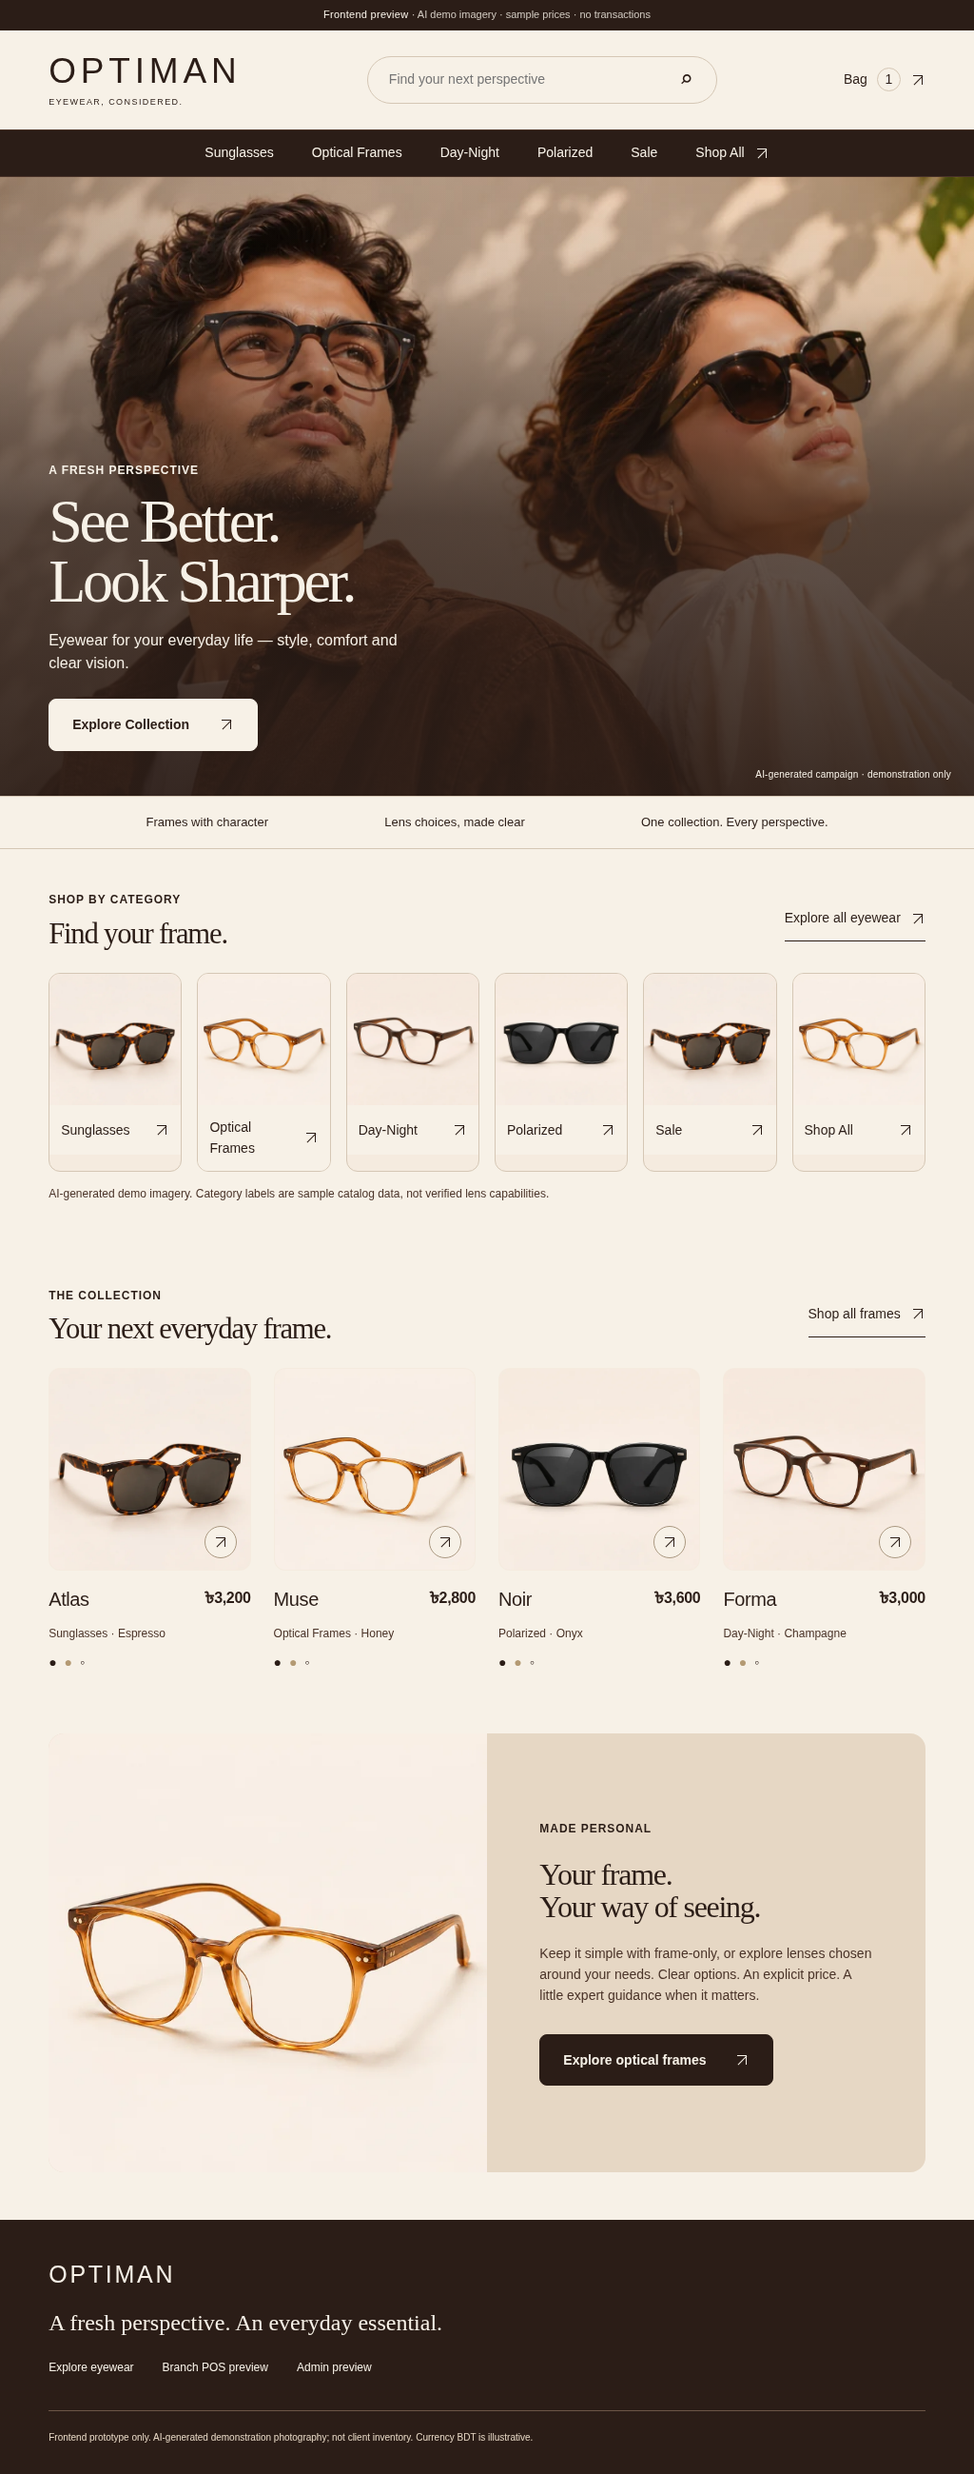
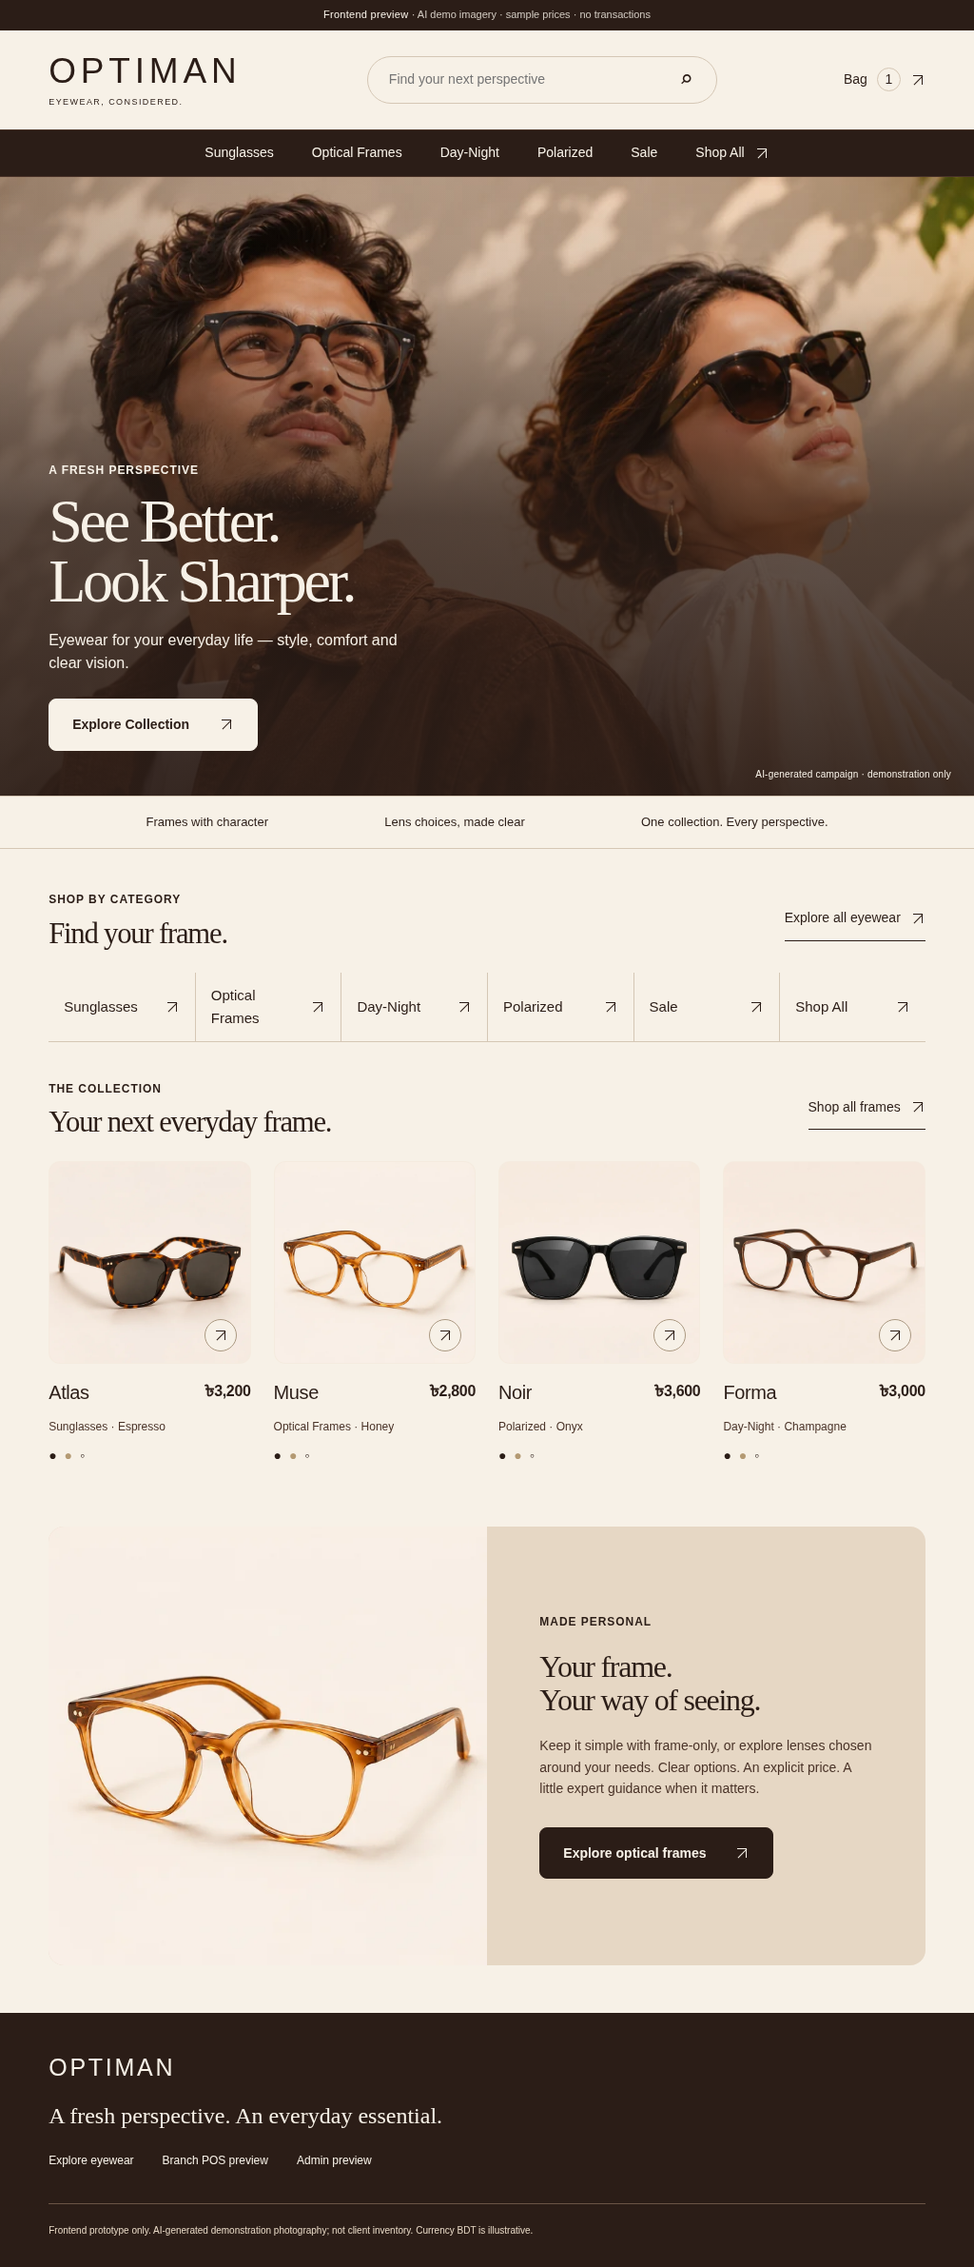
Replace category photo tiles with clean responsive text navigation

diff --git a/preview/app.js b/preview/app.js
@@ -20,10 +20,10 @@ function productPhoto(p, context='card') {
 }
 function card(p){return `<article class="product-card"><a href="#product/${p.id}" class="product-image">${productPhoto(p)}<span class="image-arrow"><i class="arrow" aria-hidden="true"></i></span></a><div class="card-meta"><div><a href="#product/${p.id}"><h3>${p.name}</h3></a><p>${p.category} · ${p.color}</p></div><strong>${money(p.price)}</strong></div><span class="dots" aria-label="Illustrative color palette">● <span>●</span> ◦</span></article>`;}
 function heading(k,t,desc=''){return `<div class="page-heading"><p class="eyebrow">${k}</p><h1>${t}</h1>${desc?`<p>${desc}</p>`:''}</div>`;}
-function home(){return `<section class="hero campaign-hero"><div class="hero-copy"><p class="eyebrow">A fresh perspective</p><h1>See Better.<br><em>Look Sharper.</em></h1><p>Eyewear for your everyday life — style, comfort and clear vision.</p><a class="button" href="#shop">Explore Collection <i class="arrow" aria-hidden="true"></i></a></div><figure class="hero-art"><img src="assets/campaign-eyewear-duo-1200.webp" srcset="assets/campaign-eyewear-duo-768.webp 768w, assets/campaign-eyewear-duo-1200.webp 1200w, assets/campaign-eyewear-duo-1774.webp 1774w" sizes="100vw" width="1774" height="887" alt="AI-generated campaign photograph of two models wearing optical glasses and sunglasses in warm sunlight" fetchpriority="high" loading="eager" decoding="async"></figure><p class="campaign-credit">AI-generated campaign · demonstration only</p></section><div class="benefit-strip"><span>Frames with character</span><span>Lens choices, made clear</span><span>One collection. Every perspective.</span></div><section class="section"><div class="section-title"><div><p class="eyebrow">Shop by category</p><h2>Find your frame.</h2></div><a href="#shop">Explore all eyewear <i class="arrow" aria-hidden="true"></i></a></div><div class="category-links">${[
-  ['Sunglasses','sunglasses',0],['Optical Frames','optical',1],['Day-Night','day-night',3],
-  ['Polarized','polarized',2],['Sale','sale',0],['Shop All','',1]
-].map(([label,slug,index])=>`<a class="category-tile" aria-label="${label}" href="#shop${slug?'/'+slug:''}">${productPhoto(products[index])}<span>${label}<i class="arrow" aria-hidden="true"></i></span></a>`).join('')}</div><p class="category-disclosure">AI-generated demo imagery. Category labels are sample catalog data, not verified lens capabilities.</p></section><section class="section"><div class="section-title"><div><p class="eyebrow">The collection</p><h2>Your next everyday frame.</h2></div><a href="#shop">Shop all frames <i class="arrow" aria-hidden="true"></i></a></div><div class="product-grid">${products.map(card).join('')}</div></section><section class="editorial">${productPhoto(products[1],'editorial')}<div><p class="eyebrow">MADE PERSONAL</p><h2>Your frame.<br>Your way of seeing.</h2><p>Keep it simple with frame-only, or explore lenses chosen around your needs. Clear options. An explicit price. A little expert guidance when it matters.</p><a class="button" href="#product/muse">Explore optical frames <i class="arrow" aria-hidden="true"></i></a></div></section>`;}
+function home(){return `<section class="hero campaign-hero"><div class="hero-copy"><p class="eyebrow">A fresh perspective</p><h1>See Better.<br><em>Look Sharper.</em></h1><p>Eyewear for your everyday life — style, comfort and clear vision.</p><a class="button" href="#shop">Explore Collection <i class="arrow" aria-hidden="true"></i></a></div><figure class="hero-art"><img src="assets/campaign-eyewear-duo-1200.webp" srcset="assets/campaign-eyewear-duo-768.webp 768w, assets/campaign-eyewear-duo-1200.webp 1200w, assets/campaign-eyewear-duo-1774.webp 1774w" sizes="100vw" width="1774" height="887" alt="AI-generated campaign photograph of two models wearing optical glasses and sunglasses in warm sunlight" fetchpriority="high" loading="eager" decoding="async"></figure><p class="campaign-credit">AI-generated campaign · demonstration only</p></section><div class="benefit-strip"><span>Frames with character</span><span>Lens choices, made clear</span><span>One collection. Every perspective.</span></div><section class="section category-section"><div class="section-title"><div><p class="eyebrow">SHOP BY CATEGORY</p><h2>Find your frame.</h2></div><a href="#shop">Explore all eyewear <i class="arrow" aria-hidden="true"></i></a></div><div class="category-links">${[
+  ['Sunglasses','sunglasses'],['Optical Frames','optical'],['Day-Night','day-night'],
+  ['Polarized','polarized'],['Sale','sale'],['Shop All','']
+].map(([label,slug])=>`<a class="category-link" aria-label="${label}" href="#shop${slug?'/'+slug:''}"><span>${label}<i class="arrow" aria-hidden="true"></i></span></a>`).join('')}</div></section><section class="section"><div class="section-title"><div><p class="eyebrow">The collection</p><h2>Your next everyday frame.</h2></div><a href="#shop">Shop all frames <i class="arrow" aria-hidden="true"></i></a></div><div class="product-grid">${products.map(card).join('')}</div></section><section class="editorial">${productPhoto(products[1],'editorial')}<div><p class="eyebrow">MADE PERSONAL</p><h2>Your frame.<br>Your way of seeing.</h2><p>Keep it simple with frame-only, or explore lenses chosen around your needs. Clear options. An explicit price. A little expert guidance when it matters.</p><a class="button" href="#product/muse">Explore optical frames <i class="arrow" aria-hidden="true"></i></a></div></section>`;}
 function shop(){const slug=location.hash.split('/')[1]||'';const cats={'sunglasses':'Sunglasses','optical':'Optical Frames','day-night':'Day-Night','polarized':'Polarized','sale':'Sale'};return `${heading('THE COLLECTION',cats[slug]||'Find your perspective.','Synthetic collection · demonstration frame prices')}<section class="section listing"><div class="filterbar"><label>Search<input id="filter-search" type="search" placeholder="Name or color"></label><label>Category<select id="filter-category"><option value="">All eyewear</option>${['Sunglasses','Optical Frames','Day-Night','Polarized','Sale'].map(c=>`<option ${cats[slug]===c?'selected':''}>${c}</option>`).join('')}</select></label><label>Price<select id="filter-price"><option value="0">All prices</option><option value="3000">Up to ৳3,000</option></select></label><label>Sort<select id="sort"><option value="featured">Featured</option><option value="low">Price: low to high</option><option value="high">Price: high to low</option><option value="name">Name</option></select></label><button class="quiet" id="clear-filters">Reset</button></div><p id="results-count" class="muted" aria-live="polite"></p><div class="product-grid" id="results"></div></section>`;}
 function results(){let list=products.filter(p=>(p.name+' '+p.color).toLowerCase().includes(document.querySelector('#filter-search').value.toLowerCase())&&(!document.querySelector('#filter-category').value||p.category===document.querySelector('#filter-category').value)&&(!+document.querySelector('#filter-price').value||p.price<=+document.querySelector('#filter-price').value));const sort=document.querySelector('#sort').value;list.sort((a,b)=>sort==='low'?a.price-b.price:sort==='high'?b.price-a.price:sort==='name'?a.name.localeCompare(b.name):0);document.querySelector('#results-count').textContent=`${list.length} illustrative styles`;document.querySelector('#results').innerHTML=list.length?list.map(card).join(''):'<div class="empty"><h2>A fresh start?</h2><p>No styles match. Try resetting your filters.</p></div>';}
 function current(){return products.find(p=>p.id===location.hash.split('/')[1])||products[0];}

diff --git a/preview/styles.css b/preview/styles.css
@@ -65,12 +65,26 @@ nav a{display:flex;align-items:center;gap:10px;min-height:48px;padding:12px 0}
 .section-title h2{font-size:clamp(30px,3vw,42px)}
 .section-title>a{display:inline-flex;align-items:center;gap:10px;min-height:44px;font-size:14px;white-space:normal}
 .section-title .eyebrow{margin-bottom:9px}
-.category-links{display:grid;grid-template-columns:repeat(6,minmax(0,1fr));gap:16px;border:0}
-.category-links a.category-tile{display:block;min-width:0;padding:0;border:1px solid var(--line);border-radius:12px;background:#f5ebdf;overflow:hidden;transition:border-color .15s ease}
-.category-tile img{display:block;width:100%;height:auto;aspect-ratio:1;object-fit:contain}
-.category-tile>span{display:flex;align-items:center;justify-content:space-between;gap:10px;min-height:52px;padding:12px;font-size:14px;background:var(--cream);font-weight:500}
-.category-links a:hover{border-color:var(--brown)}
-.category-disclosure{font-size:12px;color:var(--mocha);margin:14px 0 0}
+/* Phase 03.3: text-only discovery, lighter than the product collection. */
+.category-section{padding-bottom:20px}
+.category-section + .section{padding-top:20px}
+.category-section .category-links{display:grid;grid-template-columns:repeat(6,minmax(0,1fr));gap:0;border:0}
+.category-section .category-links .category-link{display:flex;align-items:center;min-width:0;min-height:60px;padding:12px 16px;border:0;border-bottom:1px solid var(--line);border-radius:0;background:transparent;font-size:15px;font-weight:500;transition:background-color .15s ease,border-color .15s ease}
+.category-link>span{display:flex;align-items:center;justify-content:space-between;gap:12px;width:100%}
+.category-section .category-links .category-link + .category-link{border-left:1px solid var(--line)}
+.category-section .category-links .category-link:hover{background:var(--sand);border-bottom-color:var(--brown)}
+.category-section .category-links .category-link:focus-visible{outline:2px solid var(--brown);outline-offset:-3px;background:var(--sand)}
+@media(min-width:600px) and (max-width:1023px){
+ .category-section .category-links{grid-template-columns:repeat(3,minmax(0,1fr))}
+ .category-section .category-links .category-link:nth-child(3n+1){border-left:0}
+}
+@media(max-width:599px){
+ .category-section .category-links{grid-template-columns:repeat(2,minmax(0,1fr))}
+ .category-section .category-links .category-link{min-height:52px;font-size:14px;padding:12px}
+ .category-section .category-links .category-link:nth-child(2n+1){border-left:0}
+ .category-section{padding-bottom:16px}
+ .category-section + .section{padding-top:16px}
+}
 .product-grid{gap:24px;align-items:start}
 .product-card{min-width:0}
 .product-image{border-radius:12px;background:#f5ebdf;border:1px solid transparent}
@@ -118,7 +132,6 @@ nav a{display:flex;align-items:center;gap:10px;min-height:48px;padding:12px 0}
  .campaign-hero .hero-copy{width:58%;bottom:42px}
  .campaign-hero h1{font-size:68px}
  .campaign-hero .hero-art img{object-position:58% 30%}
- .category-links{grid-template-columns:repeat(3,minmax(0,1fr));gap:16px}
  .section{padding-block:36px}
  .card-meta{flex-wrap:wrap}.card-meta strong{font-size:15px}
  .product-config h1{font-size:52px}.product-detail{gap:4%}
@@ -145,9 +158,6 @@ nav a{display:flex;align-items:center;gap:10px;min-height:48px;padding:12px 0}
  .section{padding:30px 5%}.section-title{gap:16px;margin-bottom:20px;align-items:center}
  .section-title h2{font-size:31px}.section-title .eyebrow{font-size:11px;letter-spacing:.05em}
  .section-title>a{font-size:12px;min-width:70px;gap:8px;text-align:right}
- .category-links{grid-template-columns:repeat(2,minmax(0,1fr));gap:12px}
- .category-tile>span{font-size:13px;padding:10px;min-height:46px}
- .category-disclosure{font-size:11px;line-height:1.55}
  .product-grid{gap:24px 13px}.card-meta{display:block;padding-top:14px}
  .card-meta h3{font-size:18px}.card-meta p{font-size:11px;line-height:1.45;min-height:32px}
  .card-meta strong{font-size:15px;display:block;margin-top:7px}

diff --git a/preview/index.html b/preview/index.html
@@ -1,2 +1,2 @@
 <!doctype html>
-<html lang="en"><head><meta charset="utf-8"><meta name="viewport" content="width=device-width,initial-scale=1"><meta name="theme-color" content="#2B1D17"><title>Optiman · See Better. Look Sharper.</title><link rel="stylesheet" href="styles.css?v=premium-032"><script src="app.js?v=premium-032" defer></script></head><body><a class="skip" href="#main">Skip to content</a><div class="demo">Frontend preview <span>· AI demo imagery · sample prices · no transactions</span></div><header><div class="masthead"><button class="menu icon" aria-label="Open menu" aria-expanded="false">☰</button><a class="logo" href="#home">OPTIMAN<span>EYEWEAR, CONSIDERED.</span></a><form id="search-form" role="search"><label class="sr" for="search">Search eyewear</label><input id="search" placeholder="Find your next perspective"><button aria-label="Search">⌕</button></form><a class="cart-link" href="#cart">Bag <span id="bag-count">0</span> <i class="arrow" aria-hidden="true"></i></a></div><nav aria-label="Main navigation"><a href="#shop/sunglasses">Sunglasses</a><a href="#shop/optical">Optical Frames</a><a href="#shop/day-night">Day-Night</a><a href="#shop/polarized">Polarized</a><a href="#shop/sale">Sale</a><a href="#shop">Shop All <i class="arrow" aria-hidden="true"></i></a></nav></header><main id="main" tabindex="-1"></main><footer><a class="logo" href="#home">OPTIMAN</a><p>A fresh perspective. An everyday essential.</p><div><a href="#shop">Explore eyewear</a><a href="#pos">Branch POS preview</a><a href="#admin">Admin preview</a></div><small>Frontend prototype only. AI-generated demonstration photography; not client inventory. Currency BDT is illustrative.</small></footer><dialog id="modal"><button id="close-modal" class="close" aria-label="Close dialog">×</button><div id="modal-content"></div></dialog><div id="toast" role="status" aria-live="polite"></div></body></html>
+<html lang="en"><head><meta charset="utf-8"><meta name="viewport" content="width=device-width,initial-scale=1"><meta name="theme-color" content="#2B1D17"><title>Optiman · See Better. Look Sharper.</title><link rel="stylesheet" href="styles.css?v=categories-033"><script src="app.js?v=categories-033" defer></script></head><body><a class="skip" href="#main">Skip to content</a><div class="demo">Frontend preview <span>· AI demo imagery · sample prices · no transactions</span></div><header><div class="masthead"><button class="menu icon" aria-label="Open menu" aria-expanded="false">☰</button><a class="logo" href="#home">OPTIMAN<span>EYEWEAR, CONSIDERED.</span></a><form id="search-form" role="search"><label class="sr" for="search">Search eyewear</label><input id="search" placeholder="Find your next perspective"><button aria-label="Search">⌕</button></form><a class="cart-link" href="#cart">Bag <span id="bag-count">0</span> <i class="arrow" aria-hidden="true"></i></a></div><nav aria-label="Main navigation"><a href="#shop/sunglasses">Sunglasses</a><a href="#shop/optical">Optical Frames</a><a href="#shop/day-night">Day-Night</a><a href="#shop/polarized">Polarized</a><a href="#shop/sale">Sale</a><a href="#shop">Shop All <i class="arrow" aria-hidden="true"></i></a></nav></header><main id="main" tabindex="-1"></main><footer><a class="logo" href="#home">OPTIMAN</a><p>A fresh perspective. An everyday essential.</p><div><a href="#shop">Explore eyewear</a><a href="#pos">Branch POS preview</a><a href="#admin">Admin preview</a></div><small>Frontend prototype only. AI-generated demonstration photography; not client inventory. Currency BDT is illustrative.</small></footer><dialog id="modal"><button id="close-modal" class="close" aria-label="Close dialog">×</button><div id="modal-content"></div></dialog><div id="toast" role="status" aria-live="polite"></div></body></html>

diff --git a/preview/README.md b/preview/README.md
@@ -99,3 +99,10 @@ Product-card refinement: homepage and listing holders follow the actual rendered
 - Rollback: revert the Phase 03.2 commit. Backend, merge, deployment and Phase 04 remain unauthorized.
 
 Actual Phase 03.2 results: `node --check preview/app.js` and `git diff --check` passed. `node checks/ui.cjs` passed 45 viewport/route layout checks and existing shopping regression. `node checks/premium.cjs` passed all six category routes at all five widths, header search, hero keyboard focus/touch size, keyboard consultation/Escape, eyewear crop/overlay bounds and image loading checks. Initial CLS measured 0 at each viewport after adding initial route space reservation. The cream copy/brown gradient and focal crop were also reviewed in screenshots; no formal contrast or accessibility certification is claimed. See `evidence/results.json` and `evidence/premium-results.json`.
+
+## Phase 03.3 — clean category navigation
+The homepage category section now uses text links only, in the approved order. Six columns at 1024px+, three at tablet widths, and two on mobile. Links use fine separators, visible keyboard focus and targets at least 52px high. Removed repeated category images and their section-specific disclosure; the campaign/footer AI disclosures remain. Tightened the transition to featured products. The approved hero, top navigation, catalog and business flows are unchanged.
+
+Expected behavior and checks: all six routes and Sale's empty state remain intact; verify ordering, absence of images, grid columns, label clipping, touch targets, keyboard focus/Enter and all existing regression cases at five widths. Rollback: revert the Phase 03.3 commit. Screenshots: `evidence/home-categories-1440.png` and `evidence/home-categories-390.png` (additional widths included). No merge or deployment; await visual review.
+
+Phase 03.3 actual results: 45 existing layout checks and shopping regressions passed. Category checks passed at all five widths: correct 6/3/2 column counts, exact label order, zero category images, all 30 route/keyboard-activation cases, visible focus, minimum touch sizes, no text clipping or page overflow, and unchanged Sale empty state. No JavaScript errors; measured initial CLS was zero. Desktop/mobile homepage screenshots were visually reviewed.

diff --git a/docs/06_Plan.md b/docs/06_Plan.md
@@ -55,3 +55,8 @@ Every change to a locked rule requires a new version entry and explicit user app
 - Authorized targeted frontend refinement on `feat/phase-03-ui-prototype`: cinematic hero, responsive header, category tiles, product presentation and detail hierarchy.
 - Expected: legible overlaid copy with visible eyewear, natural image-holder height, preserved shopping interactions. Validate at 360/390/768/1024/1440px, including categories, keyboard/touch, image loading and layout stability.
 - Rollback: revert the Phase 03.2 commit. No persistent state or backend changes. Stop for visual approval; no merge, deployment or Phase 04.
+
+## Phase 03.3 — 2026-11-17
+- Authorized homepage category refinement only: text navigation, no repeated product photos, exact six routes/order, reduced spacing before featured products.
+- Expected: 6/3/2 responsive columns, touch targets at least 44px, no clipping or overflow, Sale empty state unchanged. Run existing regression plus category keyboard/layout checks at 360/390/768/1024/1440px.
+- Rollback: revert this commit. Preserve the approved hero and top navigation; no merge, backend or deployment. Stop for visual approval.

diff --git a/docs/03_UI_Spec.md b/docs/03_UI_Spec.md
@@ -41,3 +41,6 @@ User-supplied AI-generated demonstration photographs replace illustrations. Hero
 
 ## Phase 03.2 — premium storefront refinement / 2026-11-17
 Explicit user instruction supersedes the previous split-hero design: full-width lifestyle image with cream headline/CTA overlay and subtle brown gradient. Mobile uses a dedicated focal crop prioritizing visible eyewear. Discovery uses six photographic category tiles; featured holders follow natural image dimensions. Refine header, type scale, product hierarchy and controls while preserving all rules, routes, prices and mock-only boundaries. No new product claims or backend work.
+
+## Phase 03.3 — clean category navigation / 2026-11-17
+Homepage discovery supersedes photographic tiles with six ordered text links and subtle separators: six columns from 1024px, three at tablet widths, two on mobile. Minimum 44px touch targets, visible keyboard focus and compact transition to featured frames. Remove the category-only image disclosure; preserve hero, top navigation, product data and business flows.
